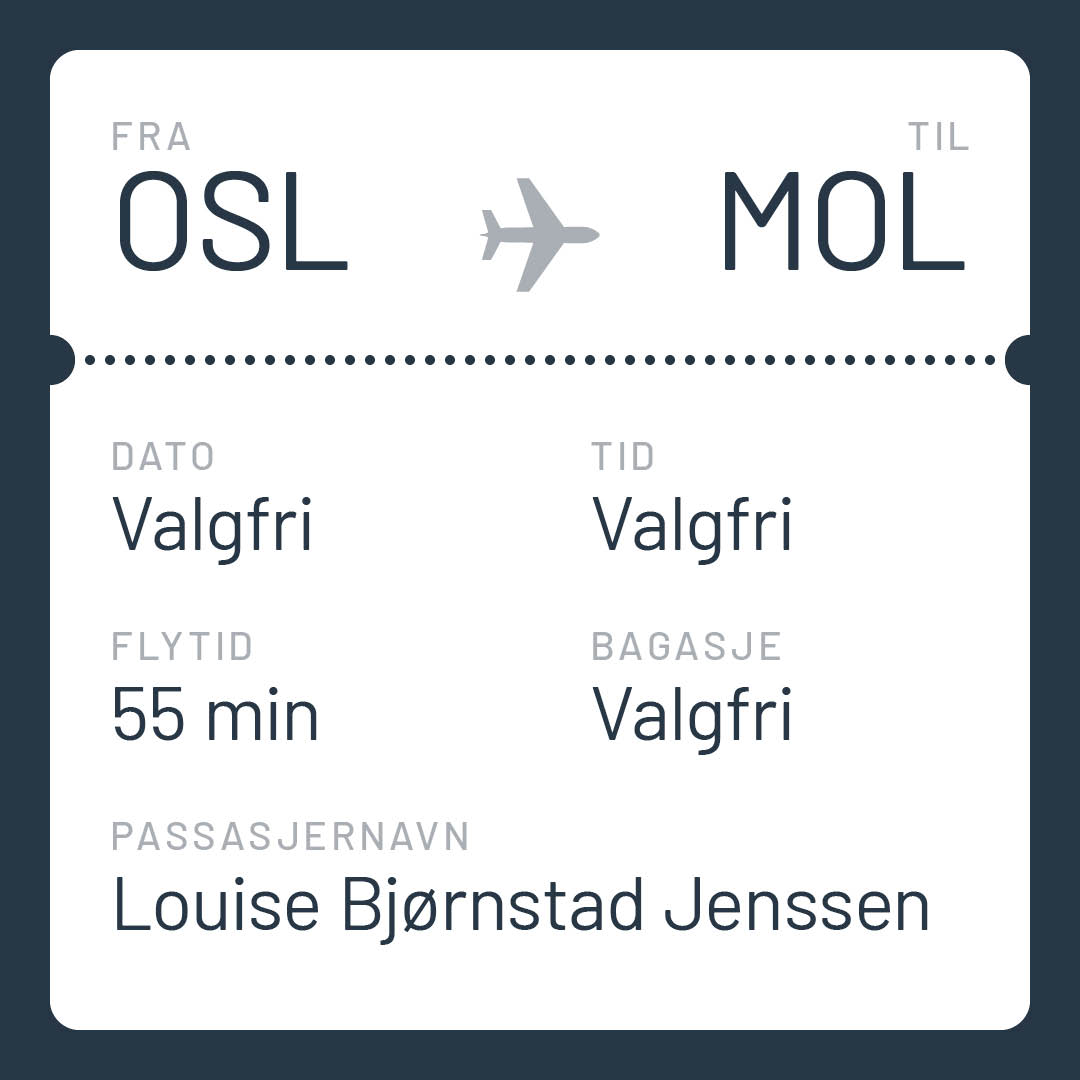
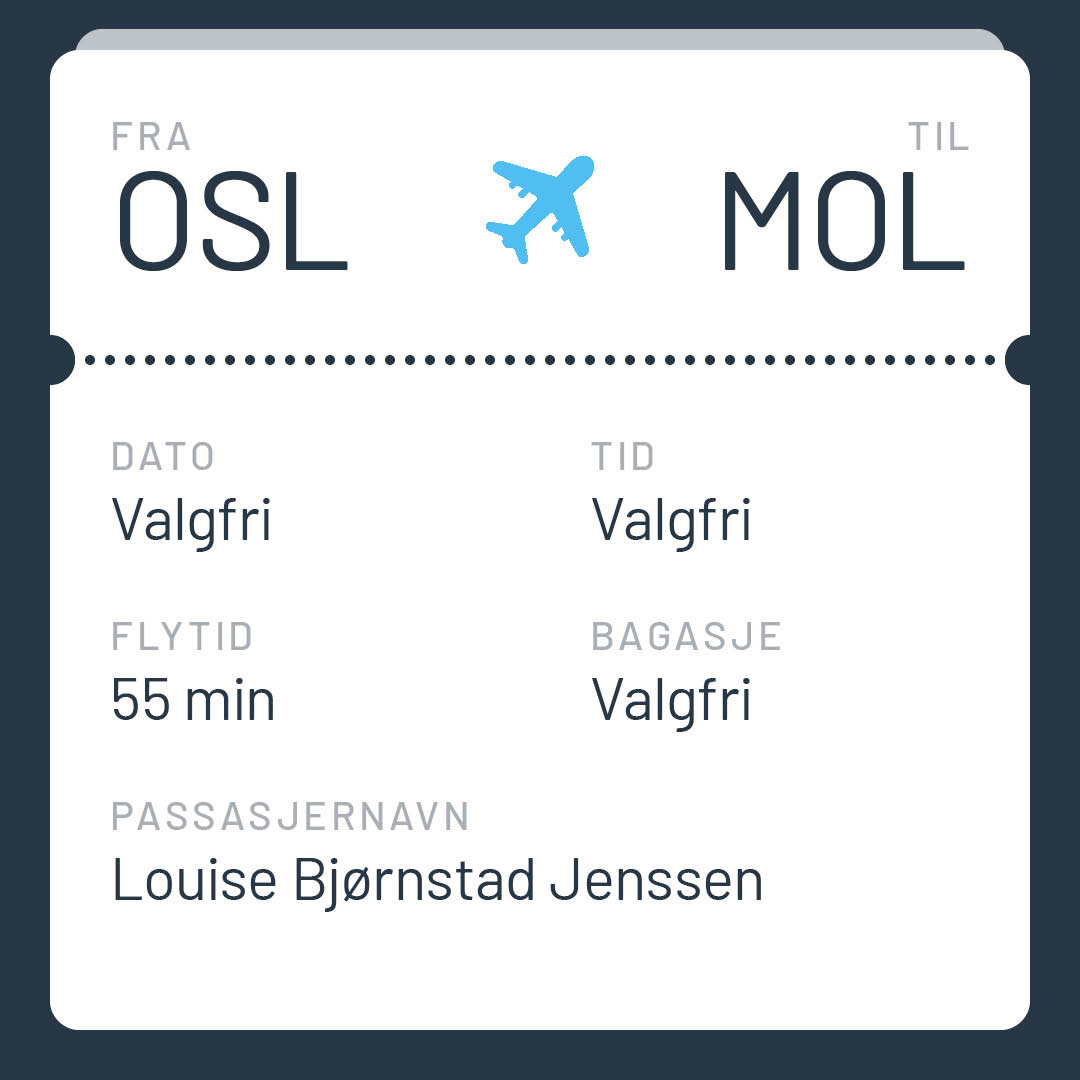
update

diff --git a/god-jul-louise.html b/god-jul-louise.html
@@ -16,9 +16,9 @@
     <div class="container">
       <div class="row">
         <div class="col-md-12">
-          <h1>Kjære Louise<br>Du skal snart ut og fly!</h1>
+          <h1>Kjære Louise<br>Vi savner deg!</h1>
           <img class="plane" src="god-jul-louise/plane.gif">
-          <h2>Vi savner deg, og synes du skal ta en tur til Molde og Kristiansund en helg det passer for alle sammen.</h2>
+          <h2>Derfor synes vi at du skal ta en tur til Molde og Kristiansund en helg det passer for alle sammen.</h2>
         </div>
         <div class="col-md-12">
           <img class="plane" src="god-jul-louise/ticket-plane.jpg">
@@ -27,7 +27,7 @@
           <h2>Det er trange tider for en student. Vi har derfor gleden av å gi deg alle billetter du trenger for å komme deg helt frem. Og tilbake igjen.</h2>
         </div>
         <div class="col-md-12">
-          <img class="plane" src="god-jul-louise/ticket-plane.jpg">
+          <img class="plane" src="god-jul-louise/route.jpg">
         </div>
       </div>
     </div>

diff --git a/god-jul-louise/style.css b/god-jul-louise/style.css
@@ -36,8 +36,8 @@ h1 {
   padding: 50px 50px; }
 
 h2 {
-  font-size: 1.4rem;
-  line-height: 1.3;
+  font-size: 1.2rem;
+  line-height: 1.4;
   font-weight: 300;
   padding: 50px; }
 
